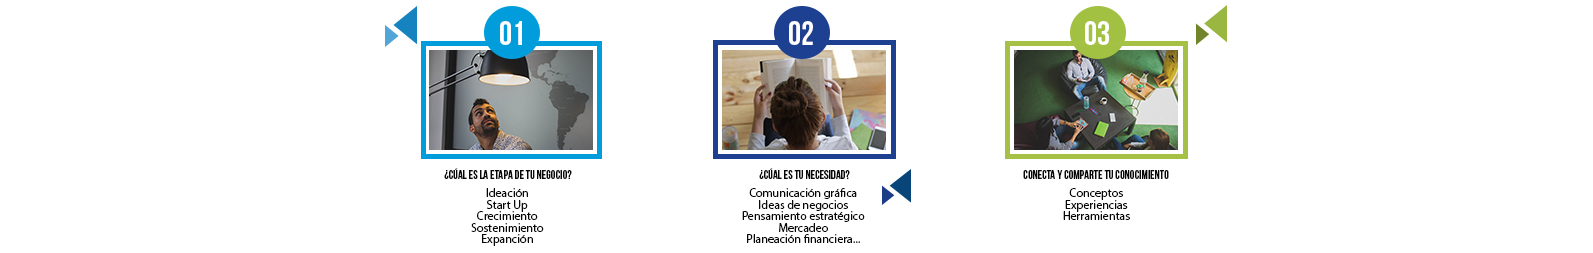
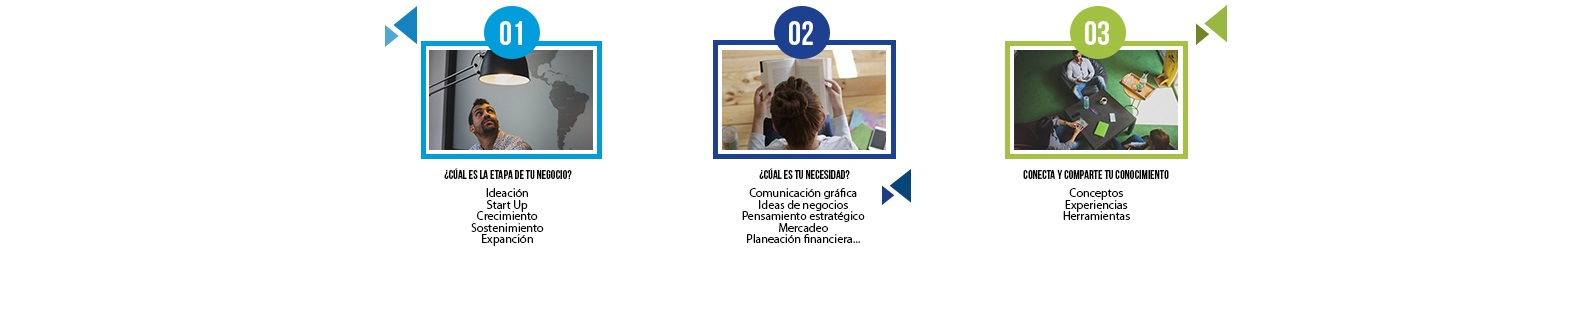
baneer image size fixed

diff --git a/AltaPerspectiva/src/AltaPerspectiva.Web/tsScripts/app/core/banner/carousel.css b/AltaPerspectiva/src/AltaPerspectiva.Web/tsScripts/app/core/banner/carousel.css
@@ -9,7 +9,7 @@
 
 
 .slides {
-    max-height:320px;
+    max-height: 320px;
     list-style: none;
     position: relative;
     width: 400%; /* Number of panes * 100% */
@@ -21,9 +21,10 @@
 }
 
 /*====Indicator Style======*/
-.active{
-    background-color:#ccc5c5;
+.active {
+    background-color: #ccc5c5;
 }
+
 .carousel-indicators {
     top: 235px;
 }
@@ -37,6 +38,7 @@ ul {
     padding: 0;
     margin-bottom: 0;
 }
+
 .slide-item {
     position: relative;
     float: left;
@@ -49,6 +51,8 @@ ul {
     display: block;
     width: 100%;
     max-width: 100%;
+    padding-bottom: 62px;
+    padding-top: 65px;
 }
 
 .carousel h2 {
@@ -64,6 +68,7 @@ ul {
     font-family: myriadpro-regular;
     text-shadow: 2px 2px 5px black;
 }
-.carousel-indicators li{
-    border:1px solid #d0cece;
+
+.carousel-indicators li {
+    border: 1px solid #d0cece;
 }
